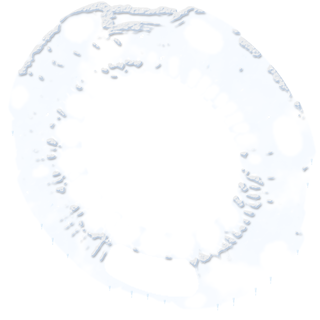
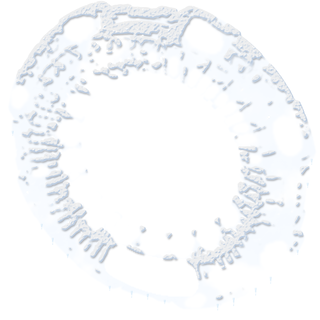
a

diff --git a/SRC/CORE/PORTAL_SKINS.js b/SRC/CORE/PORTAL_SKINS.js
@@ -189,7 +189,7 @@ export const DEFAULT_PORTAL_JUMP_BUTTON = Object.freeze({
 export const PORTAL_WINTER_TIME_ZONE = "Europe/Paris";
 export const PORTAL_WINTER_START = Object.freeze({ month: 10, day: 1, hour: 0, minute: 1 });
 export const PORTAL_WINTER_END = Object.freeze({ month: 0, day: 31, hour: 23, minute: 59 });
-export const PORTAL_WINTER_OVERLAY = Object.freeze({ src: "ASSETS/PORTAL/NORMAUX/NEIGE_VERGLAS.png", w: 320, h: 320, xOff: 0, yOff: 0, alpha: 1 });
+export const PORTAL_WINTER_OVERLAY = Object.freeze({ src: "ASSETS/PORTAL/NORMAUX/NEIGE_VERGLAS.png?v=3", w: 320, h: 320, xOff: 0, yOff: 0, alpha: 1 });
 
 const winterDateFormat = new Intl.DateTimeFormat("en-GB", {
   timeZone: PORTAL_WINTER_TIME_ZONE,

diff --git a/SRC/DATA/VERSION.js b/SRC/DATA/VERSION.js
@@ -1,1 +1,1 @@
-export const GAME_VERSION = "0.558";
+export const GAME_VERSION = "0.559";
